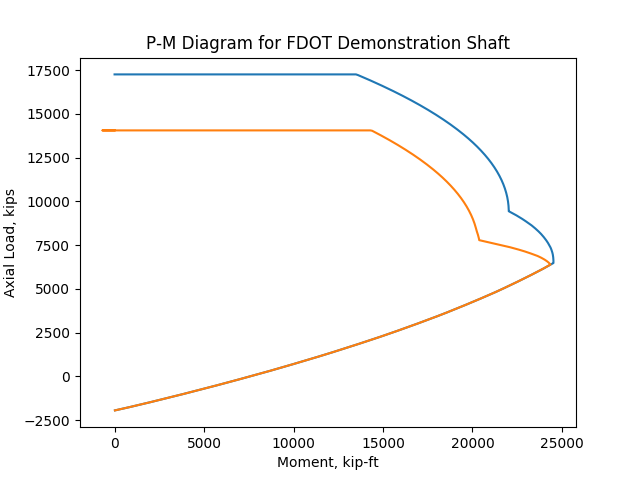
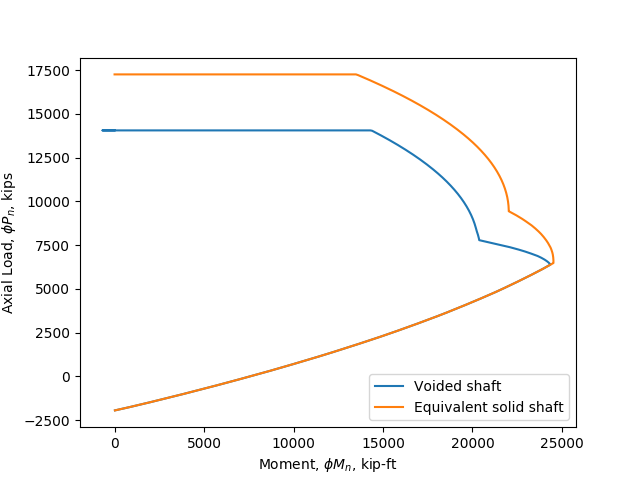
Add real-world example for comparison

diff --git a/fdot_demo.py b/fdot_demo.py
@@ -21,13 +21,18 @@ if __name__ == "__main__":
     plt.savefig(os.path.join("docs/images", "demo-shaft-unvoided.png"))
 
     plt.clf()
-    phiMn_max, phiPn_max = plot_interaction_diagram(shaft)
     shaft.Di = 48.0
-    phiMn_max, phiPn_max = plot_interaction_diagram(shaft)
+    phiMn_max, phiPn_max = plot_interaction_diagram(shaft, label="Voided shaft")
+    shaft.Di = 0.0
+    phiMn_max, phiPn_max = plot_interaction_diagram(shaft, label="Equivalent solid shaft")
 
     # Add titles and save
-    plt.title("P-M Diagram for FDOT Demonstration Shaft")
+    plt.legend()
     plt.savefig(os.path.join("docs/images", "demo-shaft-interaction.png"))
+
+    plt.scatter(5200.0, 30.0, label="Worst-Case Real-World Load Combination")
+    plt.legend()
+    plt.savefig(os.path.join("docs/images", "real-world-demo-shaft-interaction.png"))
 
     plt.clf()
     plot_voided_shaft(shaft)

diff --git a/views/voidedshaft_views.py b/views/voidedshaft_views.py
@@ -33,7 +33,7 @@ def plot_rebar(plt, shaft):
         plt.gca().add_patch(bar_circle)
 
 
-def plot_interaction_diagram(shaft):
+def plot_interaction_diagram(shaft, label=""):
 
     SEGMENTS = 400
 
@@ -61,8 +61,8 @@ def plot_interaction_diagram(shaft):
 
         shaft.c = shaft.c - shaft.D/SEGMENTS
 
-    plt.xlabel("Moment, kip-ft")
-    plt.ylabel("Axial Load, kips")
-    plt.plot(xs, ys)
+    plt.xlabel("Moment, $\phi M_n$, kip-ft")
+    plt.ylabel("Axial Load, $\phi P_n$, kips")
+    plt.plot(xs, ys, label=label)
 
     return (phiMn_max, phiPn_max)

diff --git a/docs/report.md b/docs/report.md
@@ -118,15 +118,11 @@ $$\boxed{V_n = 1.56 \sqrt{f'_c} D \left( D - D_i \right) }$$
 
 # Numerical Example
 
-To elaborate on the work of Johnson and Mullins (2007) we will look at a numerical example based upon the same shaft design as was constructed by the FDOT demonstration shaft (Mullins, Johnson, and Winters 2018).
+To elaborate on the work of Johnson and Mullins (2007) we will look at a numerical example based upon the same shaft design as was constructed by the FDOT demonstration shaft (Mullins, Johnson, and Winters 2018). It is referred to herein as the "FDOT Demonstration Shaft."
 
 ![FDOT Demonstration Shaft Section](./images/voided-shaft-detail-plan.png){ width=4in }
 
 ![FDOT Demonstration Shaft Section](./images/voided-shaft-detail-elevation.png){ width=4in }
-
-![FDOT Demonstration Shaft](./images/demo-shaft-voided.png){ width=4in }
-
-![FDOT Demonstration Shaft vithout Void](./images/demo-shaft-unvoided.png){ width=4in }
 
 ## Given
 
@@ -173,26 +169,20 @@ Transverse reinforcement is required to be provided for bars in axial compressio
 
 Additional ties at the top of the pier are required by ACI 318 Section 10.7.6.1.6. They shall be at least two #4 bars within the top 5 inches of the drilled shaft.
 
-## Load Combinations
-
 ## Combined Axial and Flexure
 
 By ACI 318 definitionthe gross are of the drilled shaft excludes the void area:
 
 {% set Ag = 355.0/113.0*(D*D - Di*Di)/4.0 %}
-
 $$A_g = \dfrac{ \pi \left( D^2 - D_i^2 \right) }{4} = \dfrac{ \pi \left( {{D|s}}^2 - {{Di|s}}^2 \right) }{4} = {{Ag|s}}\text{ in}^2$$
 
-The maximum compressive strength for a tied columns according to ACI 318 Section 22.4.2:
+The maximum compressive strength for a tied column according to ACI 318 Section 22.4.2:
 
 $$P_{n,max} = 0.80 \left[ 0.85 f'_c \left( A_g - A_{st} \right) + f_y A_{st}    \right]$$
 
 {% set Pnmax = 0.80*(0.85*fc*(Ag - Ast) + fy*Ast)/1000.0 %}
-
 {% set phiPnmax = 0.65*Pnmax %}
-
 $$P_{n,max} = 0.80 \left[ 0.85 \times {{fc|s}} \left( {{Ag|s}} - {{Ast|s}} \right) + {{fy|s}} \times {{Ast|s}}   \right] /1000 = {{Pnmax|s}}\text{ kips}$$
-
 $$\phi P_{n,max} = 0.65 \times {{Pnmax|s}} = {{phiPnmax|s}}\text{ kips}$$
 
 ## Shear
@@ -200,14 +190,51 @@ $$\phi P_{n,max} = 0.65 \times {{Pnmax|s}} = {{phiPnmax|s}}\text{ kips}$$
 {% set Vn = 1.56*fc**(0.5)*D*(D- Di)/1000.0 %}
 {% set phiv = 0.75 %}
 {% set phiVn = phiv*Vn %}
-
 The nominal shear capacity of the demonstration shaft is:
-
 $$V_n = 1.56 \sqrt{ {{fc|s}}  } ({{D|s}})({{D|s}} - {{Di|s}})/1000 = {{Vn|s}}\text{ kips}$$
-
 $$\phi V_n = {{phiv|f}} \times {{Vn|s}} = {{phiVn|s}}\text{ kips}$$
 
 Shear reinforcement is required by ACI Section 10.6.2.1 when $V_u \geq 0.5 \phi V_c$.
+
+Interaction diagram produced by Python computer program:
+
+![FDOT Demonstration Shaft Interaction Diagram](./images/demo-shaft-interaction.png){ width=5in }
+
+## Comparison to Real-World Design
+
+{% set fdot_Ast = Ast %}
+{% set Ab = 1.56 %}
+{% set n = 30.0 %}
+{% set Ast = n*Ab %}
+{% set Ast_increase = 100.0*(Ast - fdot_Ast)/fdot_Ast %}
+
+We will now compare the capacity of the FDOT Demonstration Shaft to a real-world transmission line structures. The subject structure is being constructed by the local regulated electric utility in Apollo Beach, Florida as part of a transmission line structure. The structure's anchor bolt cage has a bolt circle diameter of 7 feet. The foundation engineer selected a shaft diameter of 9 feet to provide an adequate anchor bolt edge distance. This is coincidentally the same as the shaft diameter of the FDOT Demonstration Shaft which allows direct comparison of the two. Reinforcement of the real-world shaft is 30-#11 bars, so $A_{st} = {{n}} \times {{Ab|s}} = {{Ast|s}}\text{ in}^2$ which is {{Ast_increase|i}}% greater than the FDOT Demonstration Shaft.
+
+![Real-World Anchor Bolt Cage (Author's Photo)](./images/real-world-anchor-bolt-cage.jpg){ width=5in }
+
+Factored loads given to the foundation design engineer by the structure design engineer:
+
+{% set Vu = 55.0 %}
+{% set Mg = 5000.0 %}
+{% set Mu = 5196.0 %}
+{% set z=5.1 %}
+{% set Pu=30.0 %}
+
+-   Shear force, $V_u = {{Vu|s}}$ kips.
+-   Applied groundline moment, $M_g = {{Mg|s}}$ kip-ft.
+-   Maximum moment in the shaft, $M_u = {{Mu|s}}$ kip-ft at a depth of {{z|s}} ft below the ground surface per LPile analysis.
+-   Vertical download load, $P_u = {{Pu|s}}$ kips.
+
+Check shear:
+$$\phi V_n = {{phiVn|s}} > {{Vu|s}}\text{ kips - OK}$$
+
+No shear reinforcement is required.
+
+To check combined axial load and flexure in accordance with ACI 318 Section 10.4.2.1, we will plot the point ($M_u$, $P_u$) on the voided interaction diagram: ({{Mu|s}}, {{Pu|s}}).
+
+![Real-World Load Combination on FDOT Demonstration Shaft Interaction Diagram](./images/real-world-demo-shaft-interaction.png){ width=5in }
+
+As shown in the interaction diagram, the load combination falls within the interaction envelope of the voided shaft foundation. This means the voided shaft concept can feasibly safely support a real-world transmission line structure, further validating the concept.
 
 # Cost Comparison
 
